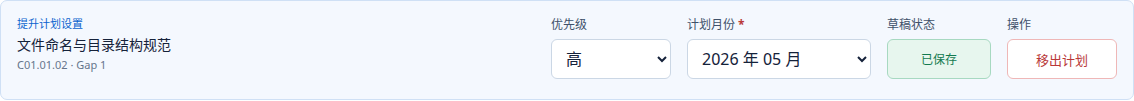
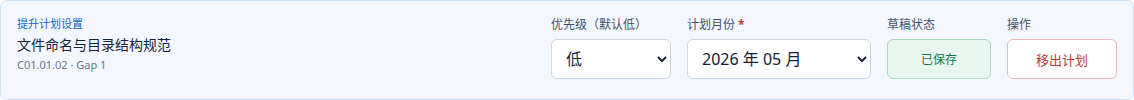
docs(prototype): align M02 stage 2 flow (#201)

diff --git a/docs/assets/ui-prototypes/prototype-v1/assets/m02-inline-expand.js b/docs/assets/ui-prototypes/prototype-v1/assets/m02-inline-expand.js
@@ -8,6 +8,7 @@ const ratings = [
 ];
 
 const state = {
+  ratingSave: "saved",
   items: [
     { code: "C01.01.01", name: "常用办公工具基础", rating: 2, target: 2 },
     {
@@ -16,7 +17,7 @@ const state = {
       rating: 1,
       target: 2,
       selected: true,
-      priority: "高",
+      priority: "低",
       month: "2026-05",
     },
     {
@@ -36,6 +37,8 @@ const state = {
   message: null,
 };
 
+let ratingSaveTimer;
+
 function gapOf(item) {
   return Math.max(0, item.target - item.rating);
 }
@@ -46,6 +49,24 @@ function ratingLabel(value) {
 
 function selectedItems() {
   return state.items.filter((item) => item.selected);
+}
+
+function ratingSaveStatus() {
+  const text = {
+    saving: "评级自动保存中…",
+    saved: "评级已自动保存",
+    error: "评级自动保存失败，请检查网络后重试",
+  }[state.ratingSave];
+  return `<span class="autosave-state ${state.ratingSave}" role="status" aria-atomic="true">${text}</span>`;
+}
+
+function queueRatingSave() {
+  clearTimeout(ratingSaveTimer);
+  state.ratingSave = "saving";
+  ratingSaveTimer = setTimeout(() => {
+    state.ratingSave = navigator.onLine ? "saved" : "error";
+    render();
+  }, 600);
 }
 
 function ratingControl(item) {
@@ -82,9 +103,9 @@ function planFields(item) {
   return `<div class="plan-fields inline-editor" data-plan-code="${item.code}" role="group" aria-label="${item.name} 提升计划设置">
     <div class="plan-identity"><span>提升计划设置</span><b>${item.name}</b><small>${item.code} · Gap ${gapOf(item)}</small></div>
     <div class="plan-control">
-      <label for="priority-${id}">优先级</label>
+      <label for="priority-${id}">优先级（默认低）</label>
       <select id="priority-${id}" data-action="priority" data-code="${item.code}">
-        ${["高", "中", "低"].map((value) => `<option ${item.priority === value ? "selected" : ""}>${value}</option>`).join("")}
+        ${["低", "中", "高"].map((value) => `<option ${item.priority === value ? "selected" : ""}>${value}</option>`).join("")}
       </select>
     </div>
     <div class="plan-control">
@@ -137,7 +158,6 @@ function actionSummary() {
   return `<div class="action-summary">
     <div><b>计划草稿：已选 ${selected.length} 项</b><span>${missing ? `待补月份 ${missing} 项` : "计划月份已完整"}</span></div>
     <div class="action-buttons">
-      <button type="button" class="btn" data-action="save-ratings">保存能力评级</button>
       <button type="button" class="btn primary" data-action="generate">生成所选学习任务</button>
     </div>
   </div>`;
@@ -166,7 +186,7 @@ function shell() {
       <header class="product-top"><b>Team Capability Platform</b><div><button type="button">2026 年</button><span>数据范围：本人</span><strong>Member User</strong><button type="button">退出</button></div></header>
       <aside class="product-nav"><nav><b>我的成长</b><button type="button">我的工作台</button><button type="button" class="active">能力评级与提升计划</button><button type="button">年度成长计划</button><button type="button">学习任务</button><button type="button">学习任务详情</button></nav><div class="nav-foot">TCP 学习环境</div></aside>
       <main class="page-canvas">
-        <div class="page-intro"><div><span>能力成长</span><h1>能力评级与提升计划</h1><p>逐项完成评级，再为有差距的能力设置提升计划。</p></div><span class="autosave-state">计划草稿自动保存中</span></div>
+        <div class="page-intro"><div><span>能力成长</span><h1>能力评级与提升计划</h1><p>评级自动保存，再为有差距的能力设置提升计划。</p></div>${ratingSaveStatus()}</div>
         <div class="summary-strip"><span>能力域 <b>6</b></span><span>三级能力项 <b>238</b></span><span>已评级 <b>238</b></span><span>存在差距 <b>16</b></span><span>已加入计划 <b>${selectedItems().length}</b></span></div>
         ${filters()}
         ${content()}
@@ -194,22 +214,16 @@ document.addEventListener("click", (event) => {
     item.rating = Number(target.dataset.rating);
     if (!gapOf(item)) item.selected = false;
     state.message = null;
+    queueRatingSave();
   }
   if (target.dataset.action === "toggle-plan" && item) {
     item.selected = !item.selected;
-    item.priority ||= "高";
+    item.priority ||= "低";
     state.message = null;
   }
   if (target.dataset.action === "remove" && item) {
     item.selected = false;
     state.message = null;
-  }
-  if (target.dataset.action === "save-ratings") {
-    state.message = {
-      type: "success",
-      title: "能力评级已保存",
-      detail: "保存评级不会生成学习任务。",
-    };
   }
   if (target.dataset.action === "generate") {
     const selected = selectedItems();
@@ -247,6 +261,17 @@ document.addEventListener("change", (event) => {
   if (target.dataset.action === "priority") item.priority = target.value;
   if (target.dataset.action === "month") item.month = target.value;
   state.message = null;
+  render();
+});
+
+window.addEventListener("offline", () => {
+  clearTimeout(ratingSaveTimer);
+  state.ratingSave = "error";
+  render();
+});
+
+window.addEventListener("online", () => {
+  queueRatingSave();
   render();
 });
 

diff --git a/docs/assets/ui-prototypes/prototype-v1/assets/m02-inline-expand.css b/docs/assets/ui-prototypes/prototype-v1/assets/m02-inline-expand.css
@@ -91,12 +91,19 @@ select:focus-visible {
   color: var(--success);
   font-size: 12px;
   font-weight: 700;
-}
-
-.autosave-state {
   border-radius: 999px;
   background: var(--success-soft);
   padding: 7px 12px;
+}
+
+.autosave-state.saving {
+  background: var(--processing-soft);
+  color: var(--processing);
+}
+
+.autosave-state.error {
+  background: var(--danger-soft);
+  color: var(--danger);
 }
 
 .summary-strip {
@@ -646,7 +653,7 @@ select:focus-visible {
 
   .action-buttons {
     display: grid;
-    grid-template-columns: 1fr 1fr;
+    grid-template-columns: 1fr;
   }
 
   .sticky-actions {

diff --git a/docs/assets/ui-prototypes/issue-201-m02/design-qa.md b/docs/assets/ui-prototypes/issue-201-m02/design-qa.md
@@ -15,21 +15,20 @@
 - [x] 间距与布局：使用统一间距轨道；1440、1024、768、375 与 900×375 无横向溢出。
 - [x] 色彩与令牌：沿用 TCP 蓝色主色和成功/错误语义色，未引入第二套视觉系统。
 - [x] 图片与资产：无新增装饰图片、伪图标、内联 SVG 或 CSS 绘图。
-- [x] 文案与内容：移除职级要求；评级保持 0–5，Gap 不小于 0，三个业务动作继续分离。
-- [x] 状态与交互：空态、保存成功、缺月份错误、聚焦修复与生成成功均已验证。
+- [x] 文案与内容：移除职级要求；评级保持 0–5，Gap 不小于 0；评级/计划自动保存与显式生成继续隔离。
+- [x] 状态与交互：评级自动保存中/已保存/失败、默认低优先级、缺月份错误、聚焦修复与生成成功均已覆盖。
 - [x] 可访问性：显式 `<label for>`、`aria-invalid`、`aria-describedby`、可见焦点和减少动画偏好已覆盖。
 
 ## Evidence
 
 - Source visual truth: `references/01-inline-expand-concept.png`（1585 × 992）。
 - Existing TCP baseline: `../UI-02-assessment-gap.png`（历史视觉基线）与 `../prototype-v1/assets/index-Cw_G5jg6.css`（复用样式）；M02 差异样式与交互位于 `../prototype-v1/assets/m02-inline-expand.css` 和 `../prototype-v1/assets/m02-inline-expand.js`。
-- Browser-rendered implementation: `qa/01-inline-expand-hifi-implementation-1536x1024.png`（1536 × 1024）。
-- Full-view combined comparison: `qa/01-inline-expand-hifi-comparison.png`。
-- Focused comparison: `qa/01-inline-expand-alignment-before-after.png`；直接显示月份控件修复前下沉 22px、修复后与优先级同基线。
+- Current browser-rendered implementation: `screenshots/01-inline-expand-hifi-1440x1024.png`（1440 × 1024）。
+- Historical comparison: `qa/01-inline-expand-hifi-comparison.png` 与 `qa/01-inline-expand-alignment-before-after.png` 记录阶段 1 对齐过程，不作为当前交互文案真值。
 - Responsive evidence: `screenshots/01-inline-expand-hifi-1440x1024.png`、`screenshots/01-inline-expand-hifi-1024x768.png`、`screenshots/01-inline-expand-hifi-768x900.png`。
-- Viewport/state: CSS viewport 1536 × 1024，deviceScaleFactor 1，桌面浅色状态，一个计划项已选且月份完整。概念图原生尺寸不同，通过 `qa/compare.html` 在等宽、600px 高的 `object-fit: contain` 画框中做结构对照，不声称逐像素一致。
-- Primary interactions tested: 0–5 评级、产生 Gap、加入/移出计划、优先级、月份、保存评级、缺月份整批拦截、焦点定位和生成成功。
-- Browser coverage: Google Chrome headless；1440×1024、1024×768、768×900、375×812、900×375；旧方案 2/3 地址重定向也已验证。
+- Viewport/state: deviceScaleFactor 1，桌面浅色状态，一个计划项已选、默认低优先级且月份完整；错误证据另含一个缺月份计划项。
+- Primary interactions tested: 0–5 评级与自动保存状态、产生 Gap、加入/移出计划、可选优先级、必填月份、缺月份整批拦截、焦点定位和生成成功。
+- Current browser coverage: Google Chrome headless；1440×1024、1024×768、768×900；旧方案 2/3 地址继续重定向到统一 M02。
 - Console/page errors: 0。Horizontal overflow: 0。
 
 ## Comparison History

diff --git a/docs/assets/ui-prototypes/issue-201-m02/ui-skills-audit.md b/docs/assets/ui-prototypes/issue-201-m02/ui-skills-audit.md
@@ -2,7 +2,7 @@
 
 ## 结论
 
-上一版不应判为高保真通过。当前审计确认 1 个 P1 和 3 个 P2；均已在方案 1 高保真原型中修复。唯一推荐入口是 [`../prototype-v1/pages/m02-selected.html`](../prototype-v1/pages/m02-selected.html)；方案 2、3 已停止维护，旧地址统一返回该入口。
+上一版不应判为高保真通过。当前审计确认 1 个 P1 和 3 个 P2；均已在方案 1 高保真原型中修复。阶段 2 合同进一步移除显式评级保存，改为清楚的自动保存状态，并把加入计划的默认优先级设为「低」。唯一推荐入口是 [`../prototype-v1/pages/m02-selected.html`](../prototype-v1/pages/m02-selected.html)；方案 2、3 已停止维护，旧地址统一返回该入口。
 
 ## 审计步骤
 
@@ -38,6 +38,7 @@
 - **P2 · 选定方向仍显示弃选入口**：顶部和索引仍展示三个方案。已只保留“已选方向 · 方案 1”，方案 2、3 URL 返回方案 1。
 - **P2 · 产品合同文案漂移**：上一版显示“当前职级必备”“P4/P5 标准”，与 `docs/04_UI.md` 的 M02 不展示职级要求冲突。已改为 L3 标识、目标等级名称和 Gap。
 - **P2 · 1024px 操作条遮挡**：粘性操作条覆盖选中行编辑区。已在 1180px 及以下回归普通文档流。
+- **阶段 2 · 操作合同对齐**：移除独立评级保存按钮与事件；评级显示保存中/已保存/失败语义，生成保持唯一主 CTA；优先级默认「低」且不作为生成门禁。
 
 ## Skills 复核结果
 

diff --git a/docs/assets/ui-prototypes/issue-201-m02/README.md b/docs/assets/ui-prototypes/issue-201-m02/README.md
@@ -13,7 +13,8 @@
 ## 原型边界
 
 - 纯静态 HTML/CSS/JS，不连接 API，不保存到数据库。
-- 评级、加入/移出计划、优先级、月份、保存和生成仅在浏览器内模拟。
+- 评级自动保存、加入/移出计划、优先级、月份、计划草稿自动保存和生成仅在浏览器内模拟；不提供独立评级保存按钮。
+- 加入计划时优先级默认「低」且可选改为中/高；计划月份仍为生成前必填项。
 - 业务示例固定使用 `null/0–5` 评级合同，Gap 不出现负数。
 - 方案 1 按 1440、1024、768 Web 视口设计。
 - 方案 2、3 已停止维护；统一入口只展示方案 1。
